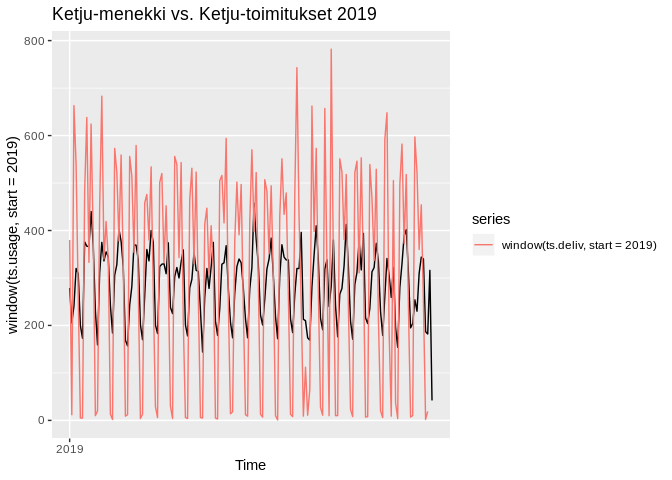
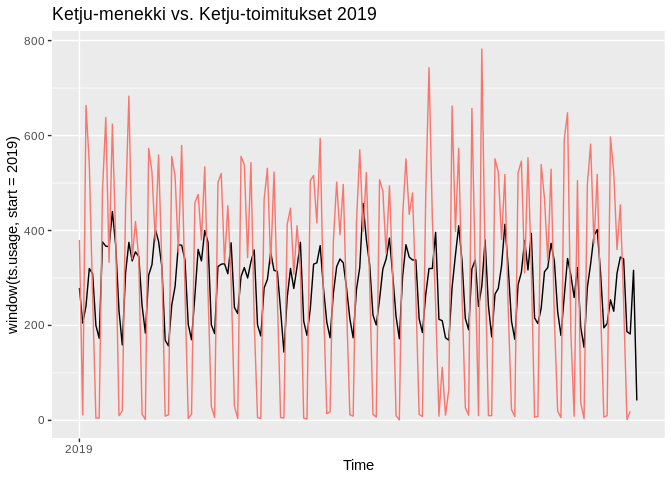
fix md

diff --git a/src/demand_lab.md b/src/demand_lab.md
@@ -121,15 +121,16 @@ ts.usage <- ts(usage$pcs, start = 2014, frequency = 365)
 ```
 
 ``` r
-autoplot(window(ts.usage, start = 2019)) + autolayer(window(ts.deliv, start = 2019)) + ggtitle("Ketju-menekki vs. Ketju-toimitukset 2019")
+autoplot(window(ts.usage, start = 2019)) + autolayer(window(ts.deliv, start = 2019)) + ggtitle("Ketju-menekki vs. Ketju-toimitukset 2019") +
+  theme(legend.position = "none")
 ```
 
 ![](demand_lab_files/figure-gfm/unnamed-chunk-6-1.png)<!-- -->
 
 ``` r
 # Plot
-usage.p <- ts(cumsum(usage$pcs), start = 2014, frequency = 265)
-deliv.p <- ts(cumsum(deliv.imputed$deliveries), start = 2014, frequency = 265)
+usage.p <- ts(cumsum(usage$pcs), start = 2014, frequency = 365)
+deliv.p <- ts(cumsum(deliv.imputed$deliveries), start = 2014, frequency = 365)
 difference <- tail(cumsum(deliv.imputed$deliveries), 1) - tail(cumsum(usage$pcs), 1)
 autoplot(usage.p) + autolayer(deliv.p) + ggtitle(paste("Cumsum difference at end of series: ", difference))
 ```
